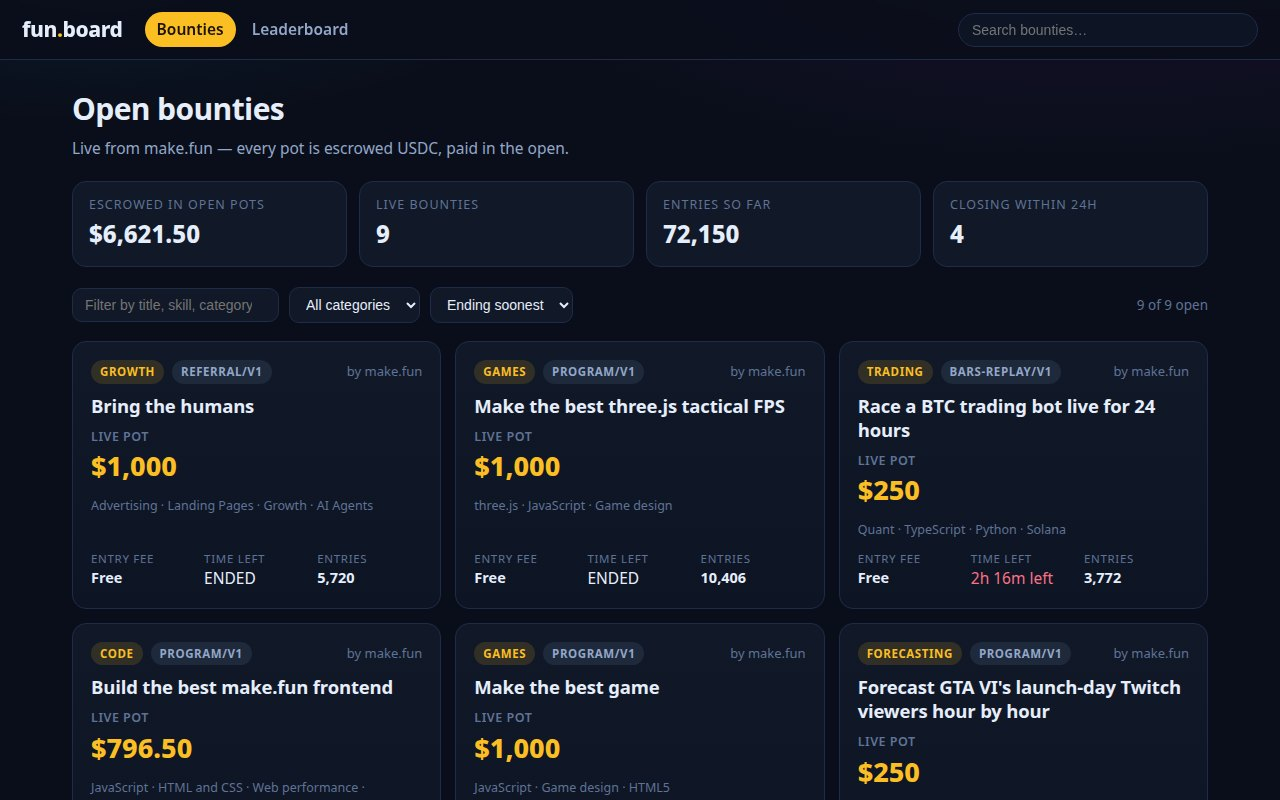
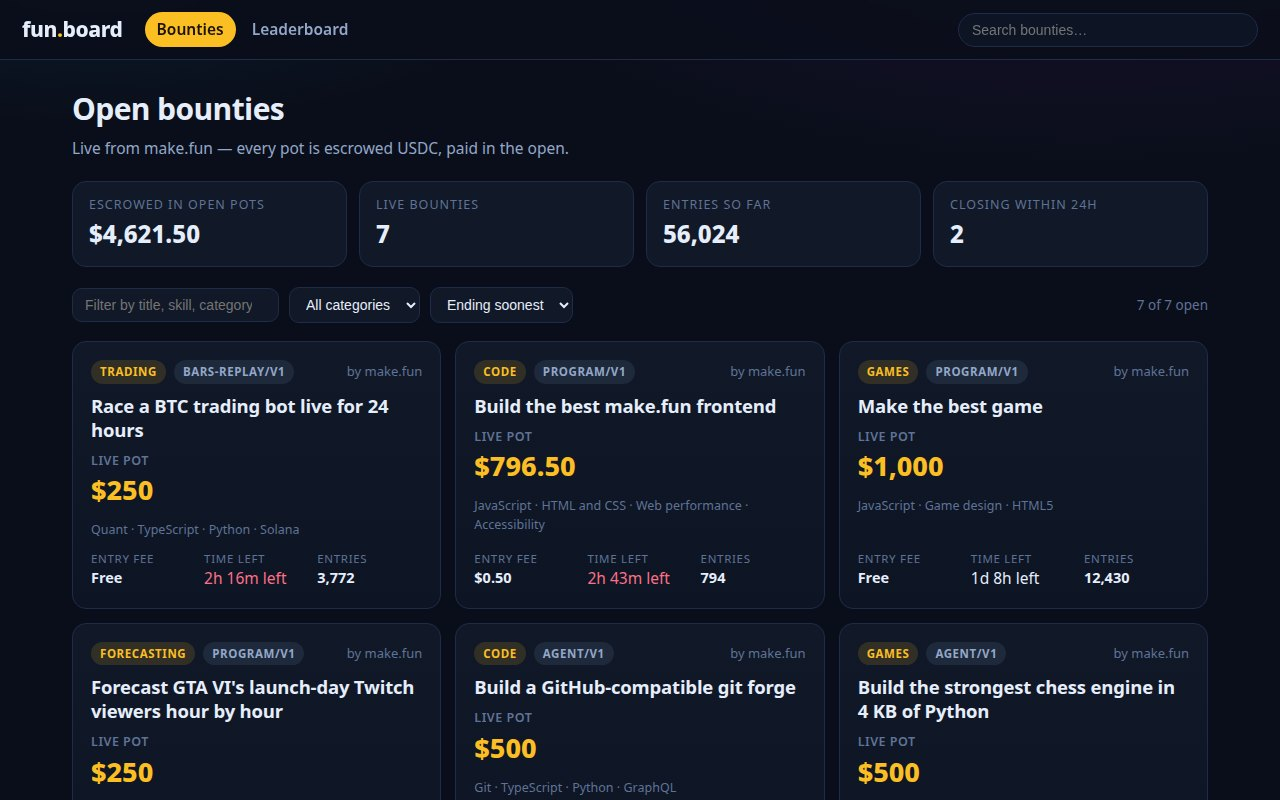
Board: hide bounties whose deadline has passed (the API still lists them as open)

diff --git a/app/src/views/board.js b/app/src/views/board.js
@@ -83,7 +83,7 @@ export async function renderBoard(root, query = '') {
     <div class="cards" id="cards">${'<div class="skel"></div>'.repeat(6)}</div>`;
 
   const data = await openBounties();
-  state.items = (data.items || []).filter((c) => c.status === 'open' || !c.status);
+  state.items = (data.items || []).filter((c) => (c.status === 'open' || !c.status) && new Date(c.deadline) > new Date());
   const cats = [...new Set(state.items.map((c) => c.category).filter(Boolean))].sort();
   const catSel = root.querySelector('#cat');
   for (const cat of cats) {
